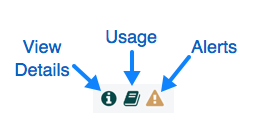
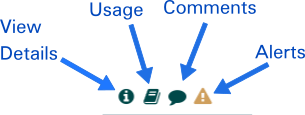
NIFI-10241 Add comments tooltip for controller services, reporting tasks
This closes #6768

diff --git a/nifi-nar-bundles/nifi-framework-bundle/nifi-framework/nifi-web/nifi-web-ui/src/main/webapp/js/nf/canvas/nf-settings.js b/nifi-nar-bundles/nifi-framework-bundle/nifi-framework/nifi-web/nifi-web-ui/src/main/webapp/js/nf/canvas/nf-settings.js
@@ -1594,8 +1594,13 @@
             // always include a button to view the usage
             markup += '<div title="Usage" class="pointer reporting-task-usage fa fa-book"></div>';
 
+            var hasComments = !nfCommon.isBlank(dataContext.component.comments);
             var hasErrors = !nfCommon.isEmpty(dataContext.component.validationErrors);
             var hasBulletins = !nfCommon.isEmpty(dataContext.bulletins);
+
+            if (hasComments) {
+            	markup += '<div class="pointer has-comments fa fa-comment"></div>';
+            }
 
             if (hasErrors) {
                 markup += '<div class="pointer has-errors fa fa-warning" ></div>';
@@ -1605,7 +1610,7 @@
                 markup += '<div class="has-bulletins fa fa-sticky-note-o"></div>';
             }
 
-            if (hasErrors || hasBulletins) {
+            if (hasComments || hasErrors || hasBulletins) {
                 markup += '<span class="hidden row-id">' + nfCommon.escapeHtml(dataContext.component.id) + '</span>';
             }
 
@@ -1698,8 +1703,8 @@
                 resizable: false,
                 formatter: moreReportingTaskDetails,
                 sortable: true,
-                width: 90,
-                maxWidth: 90,
+                width: 100,
+                maxWidth: 100,
                 toolTip: 'Sorts based on presence of bulletins'
             },
             {
@@ -1829,6 +1834,36 @@
 
         // hold onto an instance of the grid
         $('#reporting-tasks-table').data('gridInstance', reportingTasksGrid).on('mouseenter', 'div.slick-cell', function (e) {
+            var commentsIcon = $(this).find('div.has-comments');
+            if (commentsIcon.length && !commentsIcon.data('qtip')) {
+                 var taskId = $(this).find('span.row-id').text();
+
+                // get the task item
+                var reportingTaskEntity = reportingTasksData.getItemById(taskId);
+
+                // format the tooltip
+                var comments = nfCommon.escapeHtml(reportingTaskEntity.component.comments);
+                var tooltip = nfCommon.formatNewLines(comments);
+
+                // show the tooltip
+                if (nfCommon.isDefinedAndNotNull(tooltip)) {
+                    commentsIcon.qtip($.extend({},
+                        nfCommon.config.tooltipConfig,
+                        {
+                            content: tooltip,
+                            position: {
+                                target: 'mouse',
+                                viewport: $('#shell-container'),
+                                adjust: {
+                                    x: 8,
+                                    y: 8,
+                                    method: 'flipinvert flipinvert'
+                                }
+                            }
+                        }));
+                }
+            }
+
             var errorIcon = $(this).find('div.has-errors');
             if (errorIcon.length && !errorIcon.data('qtip')) {
                 var taskId = $(this).find('span.row-id').text();
@@ -2543,6 +2578,7 @@
             });
 
             var reportingTasksElement = $('#reporting-tasks-table');
+            nfCommon.cleanUpTooltips(reportingTasksElement, 'div.has-comments');
             nfCommon.cleanUpTooltips(reportingTasksElement, 'div.has-errors');
             nfCommon.cleanUpTooltips(reportingTasksElement, 'div.has-bulletins');
 

diff --git a/nifi-nar-bundles/nifi-framework-bundle/nifi-framework/nifi-web/nifi-web-ui/src/main/webapp/js/nf/canvas/nf-controller-services.js b/nifi-nar-bundles/nifi-framework-bundle/nifi-framework/nifi-web/nifi-web-ui/src/main/webapp/js/nf/canvas/nf-controller-services.js
@@ -868,8 +868,13 @@
             // always include a button to view the usage
             var markup = '<div title="Usage" class="pointer controller-service-usage fa fa-book"></div>';
 
+            var hasComments = !nfCommon.isBlank(dataContext.component.comments);
             var hasErrors = !nfCommon.isEmpty(dataContext.component.validationErrors);
             var hasBulletins = !nfCommon.isEmpty(dataContext.bulletins);
+
+            if (hasComments) {
+            	markup += '<div class="pointer has-comments fa fa-comment"></div>';
+            }
 
             if (hasErrors) {
                 markup += '<div class="pointer has-errors fa fa-warning"></div>';
@@ -879,7 +884,7 @@
                 markup += '<div class="has-bulletins fa fa-sticky-note-o"></div>';
             }
 
-            if (hasErrors || hasBulletins) {
+            if (hasComments || hasErrors || hasBulletins) {
                 markup += '<span class="hidden row-id">' + nfCommon.escapeHtml(dataContext.id) + '</span>';
             }
 
@@ -1157,6 +1162,36 @@
 
         // hold onto an instance of the grid
         serviceTable.data('gridInstance', controllerServicesGrid).on('mouseenter', 'div.slick-cell', function (e) {
+            var commentsIcon = $(this).find('div.has-comments');
+            if (commentsIcon.length && !commentsIcon.data('qtip')) {
+                var serviceId = $(this).find('span.row-id').text();
+
+                // get the service item
+                var controllerServiceEntity = controllerServicesData.getItemById(serviceId);
+
+                // format the tooltip
+                var comments = nfCommon.escapeHtml(controllerServiceEntity.component.comments);
+                var tooltip = nfCommon.formatNewLines(comments);
+
+                // show the tooltip
+                if (nfCommon.isDefinedAndNotNull(tooltip)) {
+                    commentsIcon.qtip($.extend({},
+                        nfCommon.config.tooltipConfig,
+                        {
+                            content: tooltip,
+                            position: {
+                                target: 'mouse',
+                                viewport: $('#shell-container'),
+                                adjust: {
+                                    x: 8,
+                                    y: 8,
+                                    method: 'flipinvert flipinvert'
+                                }
+                            }
+                        }));
+                }
+            }
+
             var errorIcon = $(this).find('div.has-errors');
             if (errorIcon.length && !errorIcon.data('qtip')) {
                 var serviceId = $(this).find('span.row-id').text();
@@ -1241,6 +1276,7 @@
                 }, service));
             });
 
+            nfCommon.cleanUpTooltips(serviceTable, 'div.has-comments');
             nfCommon.cleanUpTooltips(serviceTable, 'div.has-errors');
             nfCommon.cleanUpTooltips(serviceTable, 'div.has-bulletins');
 

diff --git a/nifi-nar-bundles/nifi-framework-bundle/nifi-framework/nifi-web/nifi-web-ui/src/main/webapp/js/nf/nf-common.js b/nifi-nar-bundles/nifi-framework-bundle/nifi-framework/nifi-web/nifi-web-ui/src/main/webapp/js/nf/nf-common.js
@@ -1084,6 +1084,21 @@
         }()),
 
         /**
+         * Formats the specified value, so new lines are represented as \<br\>
+         * If value is null or not defined an empty string is returned
+         *
+         * @argument {string} value     string value
+         * @returns {string}
+         */
+        formatNewLines: function (value) {
+            if (nfCommon.isDefinedAndNotNull(value)) {
+            	return value.replaceAll(/[\n]/g, "<br>");
+            } else {
+                return '';
+            }
+        },
+
+        /**
          * Determines if the specified property is sensitive.
          *
          * @argument {object} propertyDescriptor        The property descriptor
